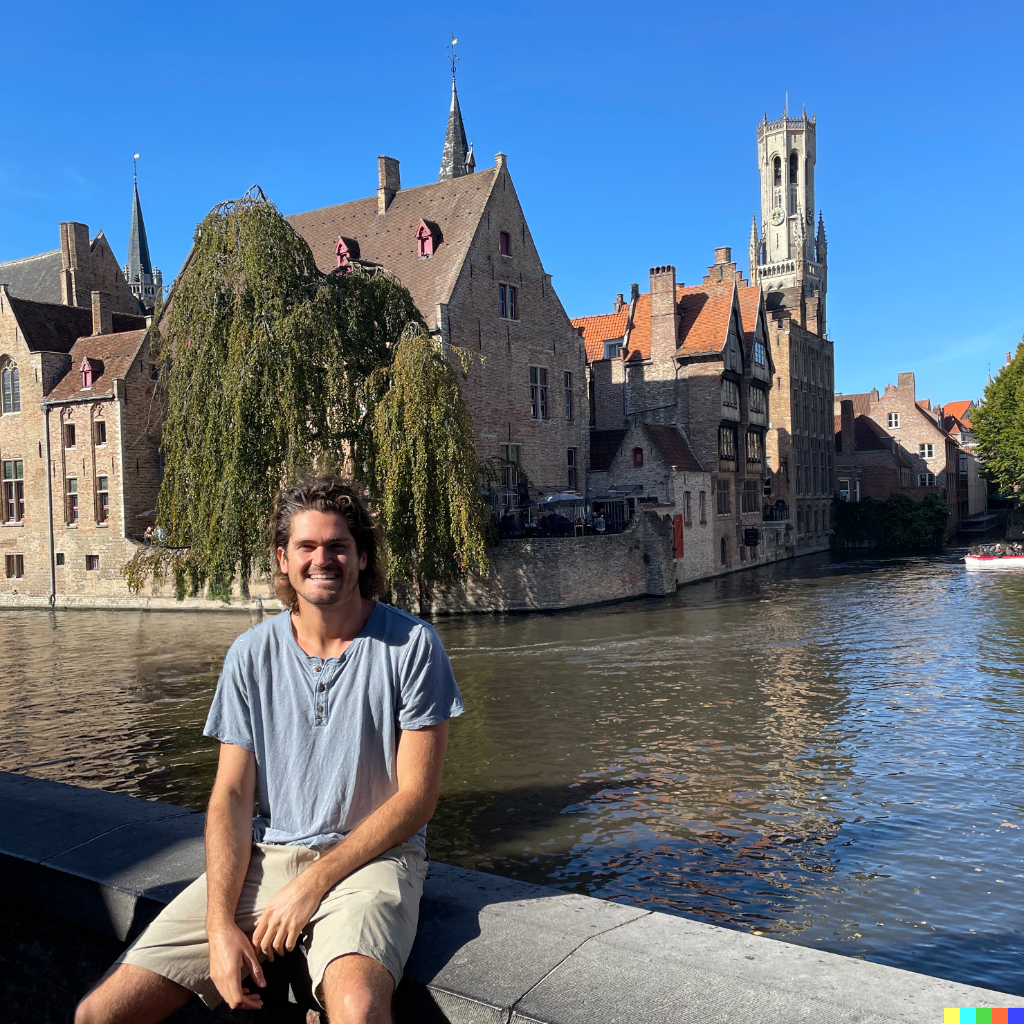
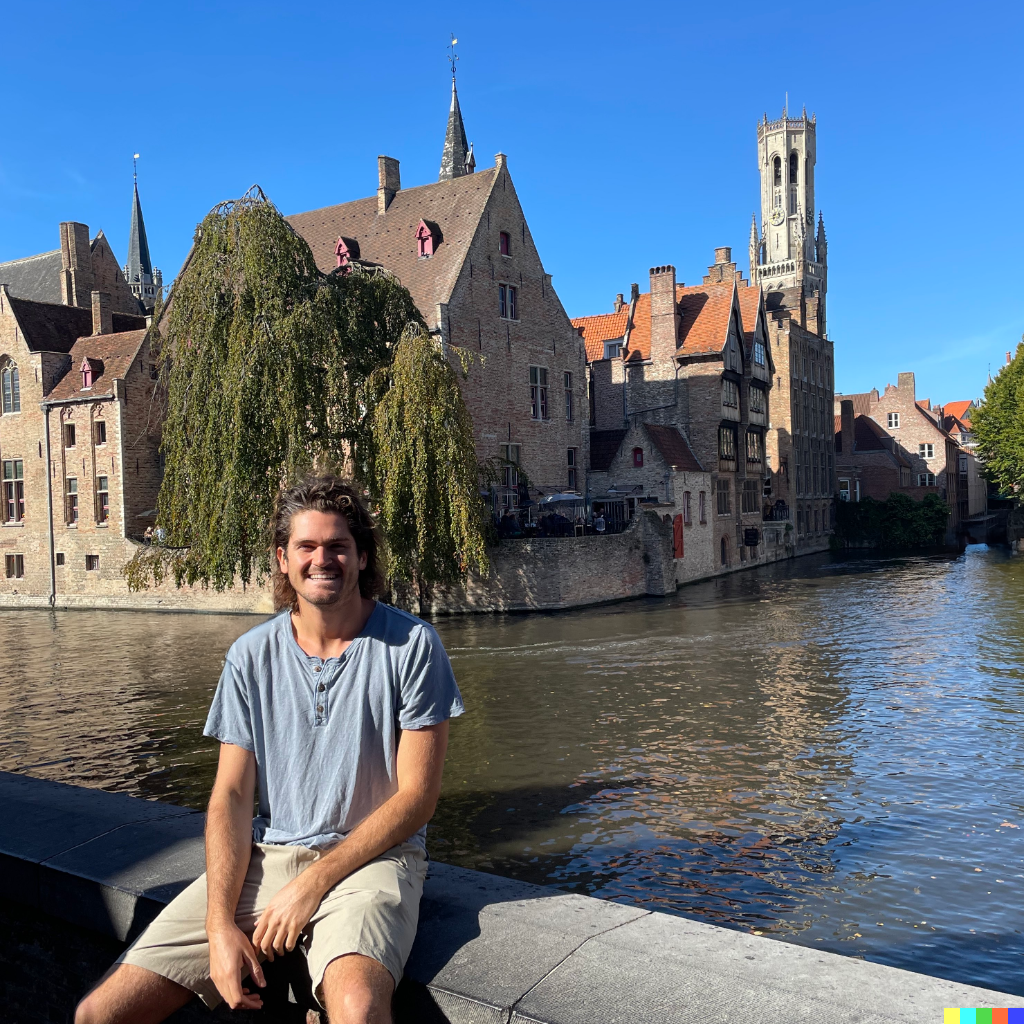
Add full inpainting

Changed region(s): [[0.0938, 0.5625, 0.2812, 0.6875], [0.9062, 0.5, 1.0, 0.5938]]

diff --git a/PITCHME.md b/PITCHME.md
@@ -24,9 +24,17 @@ Image generation, theory and application
 
 ![bg contain](assets/bruges.jpeg)
 
+<!-- Lets start out with an anecodote. -->
+
 ---
 
 ![bg contain](assets/bruges-inpainting.png)
+
+---
+
+---
+
+![bg contain](assets/bruges-full-inpainting.png)
 
 ---
 
